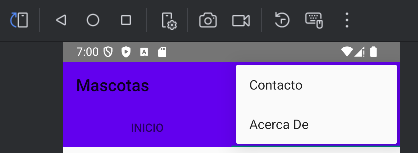
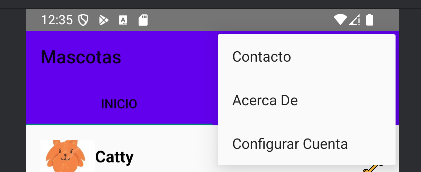
mods

diff --git a/app/src/main/java/com/example/mascotas/ConfigurarCuentaActivity.kt b/app/src/main/java/com/example/mascotas/ConfigurarCuentaActivity.kt
@@ -1,0 +1,39 @@
+package com.example.mascotas
+
+import android.content.Context
+import android.content.SharedPreferences
+import android.os.Bundle
+import android.widget.Button
+import android.widget.EditText
+import androidx.appcompat.app.AppCompatActivity
+
+class ConfigurarCuentaActivity : AppCompatActivity() {
+
+    private lateinit var etUsuario: EditText
+    private lateinit var btnGuardarCuenta: Button
+    private lateinit var sharedPreferences: SharedPreferences
+
+    override fun onCreate(savedInstanceState: Bundle?) {
+        super.onCreate(savedInstanceState)
+        setContentView(R.layout.activity_configurar_cuenta)
+
+        etUsuario = findViewById(R.id.etUsuario)
+        btnGuardarCuenta = findViewById(R.id.btnGuardarCuenta)
+
+        // Inicializa SharedPreferences
+        sharedPreferences = getSharedPreferences("PetagramPrefs", Context.MODE_PRIVATE)
+
+        // Cargar el usuario guardado (si existe)
+        etUsuario.setText(sharedPreferences.getString("usuario", ""))
+
+        btnGuardarCuenta.setOnClickListener {
+            val usuario = etUsuario.text.toString()
+            if (usuario.isNotEmpty()) {
+                // Guarda el usuario en SharedPreferences
+                sharedPreferences.edit().putString("usuario", usuario).apply()
+            }
+        }
+    }
+
+
+}

diff --git a/app/src/main/java/com/example/mascotas/MediaAdapter.kt b/app/src/main/java/com/example/mascotas/MediaAdapter.kt
@@ -1,0 +1,28 @@
+package com.example.mascotas
+
+import android.view.LayoutInflater
+import android.view.View
+import android.view.ViewGroup
+import android.widget.ImageView
+import androidx.recyclerview.widget.RecyclerView
+import com.squareup.picasso.Picasso
+
+class MediaAdapter(private val mediaItems: List<MediaItem>) :
+    RecyclerView.Adapter<MediaAdapter.MediaViewHolder>() {
+
+    class MediaViewHolder(view: View) : RecyclerView.ViewHolder(view) {
+        val imgMedia: ImageView = view.findViewById(R.id.imgMedia)
+    }
+
+    override fun onCreateViewHolder(parent: ViewGroup, viewType: Int): MediaViewHolder {
+        val view = LayoutInflater.from(parent.context).inflate(R.layout.item_media, parent, false)
+        return MediaViewHolder(view)
+    }
+
+    override fun onBindViewHolder(holder: MediaViewHolder, position: Int) {
+        val mediaItem = mediaItems[position]
+        Picasso.get().load(mediaItem.images.thumbnail.url).into(holder.imgMedia)
+    }
+
+    override fun getItemCount() = mediaItems.size
+}

diff --git a/app/src/main/java/com/example/mascotas/ApiClient.kt b/app/src/main/java/com/example/mascotas/ApiClient.kt
@@ -1,0 +1,15 @@
+package com.example.mascotas
+
+import retrofit2.Retrofit
+import retrofit2.converter.gson.GsonConverterFactory
+
+object ApiClient {
+    private const val BASE_URL = "https://api.instagram.com/v1/"
+
+    val instance: Retrofit by lazy {
+        Retrofit.Builder()
+            .baseUrl(BASE_URL)
+            .addConverterFactory(GsonConverterFactory.create())
+            .build()
+    }
+}

diff --git a/app/src/main/java/com/example/mascotas/MainActivity.kt b/app/src/main/java/com/example/mascotas/MainActivity.kt
@@ -87,6 +87,10 @@ class MainActivity : AppCompatActivity() {
                 startActivity(intent)
                 true
             }
+            R.id.action_configurar_cuenta -> {
+                startActivity(Intent(this, ConfigurarCuentaActivity::class.java))
+                true
+            }
             else -> super.onOptionsItemSelected(item)
         }
     }

diff --git a/app/src/main/java/com/example/mascotas/InstagramApiService.kt b/app/src/main/java/com/example/mascotas/InstagramApiService.kt
@@ -1,0 +1,13 @@
+package com.example.mascotas
+
+import retrofit2.Call
+import retrofit2.http.GET
+import retrofit2.http.Query
+
+interface InstagramApiService {
+    @GET("users/self/media/recent")
+    fun getRecentMedia(
+        @Query("access_token") accessToken: String
+    ): Call<InstagramResponse>
+}
+

diff --git a/app/src/main/java/com/example/mascotas/InstagramResponse.kt b/app/src/main/java/com/example/mascotas/InstagramResponse.kt
@@ -1,0 +1,18 @@
+package com.example.mascotas
+
+data class InstagramResponse(
+    val data: List<MediaItem>
+)
+
+data class MediaItem(
+    val id: String,
+    val images: MediaImages
+)
+
+data class MediaImages(
+    val thumbnail: MediaImage
+)
+
+data class MediaImage(
+    val url: String
+)
